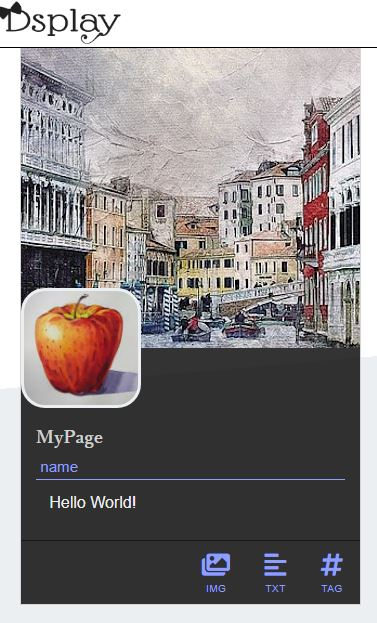
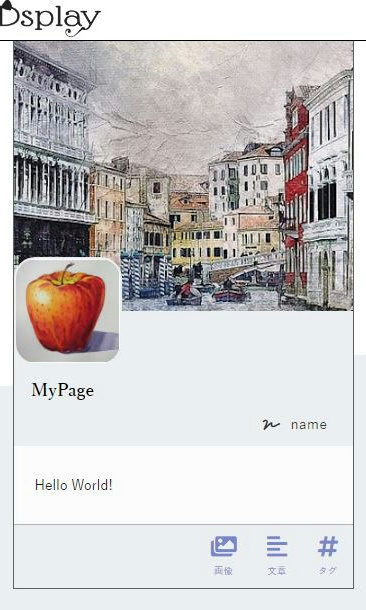
title css fix

diff --git a/app/assets/stylesheets/_basic_grid_partial.scss b/app/assets/stylesheets/_basic_grid_partial.scss
@@ -18,7 +18,7 @@
 .item_index_container .cards{
     position: relative;
     overflow: hidden;
-    background: rgba(0,0,0,0.6);
+    background: linear-gradient(to top,rgba(0,0,0,0.8),rgba(0,0,0,0.6));
 }
 
 /*articleの指定*/
@@ -90,11 +90,12 @@
     bottom: 0;
     left: 0;
     font-size: 1em;
-    height: 2em;
+    height: 2.2em;
     width: 100%;
-    line-height: 2em;
+    line-height: 2.2;
     white-space: nowrap;
     text-indent: 0.8em;
+    overflow: hidden;
 }
 
 .item_index_container .cards a:hover{

diff --git a/app/assets/stylesheets/_simple_li_partial.scss b/app/assets/stylesheets/_simple_li_partial.scss
@@ -35,11 +35,14 @@
  display: block;
  width: 100%;
  font-size: 1.45rem;
+ height: 1.6em;
+ line-height: 1.6;
  background: rgba(0,0,0,0.9);
- padding: 0 5px;
  color: #fff;
  bottom: 0;
  white-space: nowrap;
+ text-indent: 5px;
+ overflow: hidden;
 }
 
 

diff --git a/app/assets/stylesheets/index.scss b/app/assets/stylesheets/index.scss
@@ -50,7 +50,7 @@
     width: 100%;
     height: 100%;
     object-fit: cover;
-    filter: brightness(60%);
+    filter: sepia(30%) brightness(80%);
 }
 
 .header_back::after{
